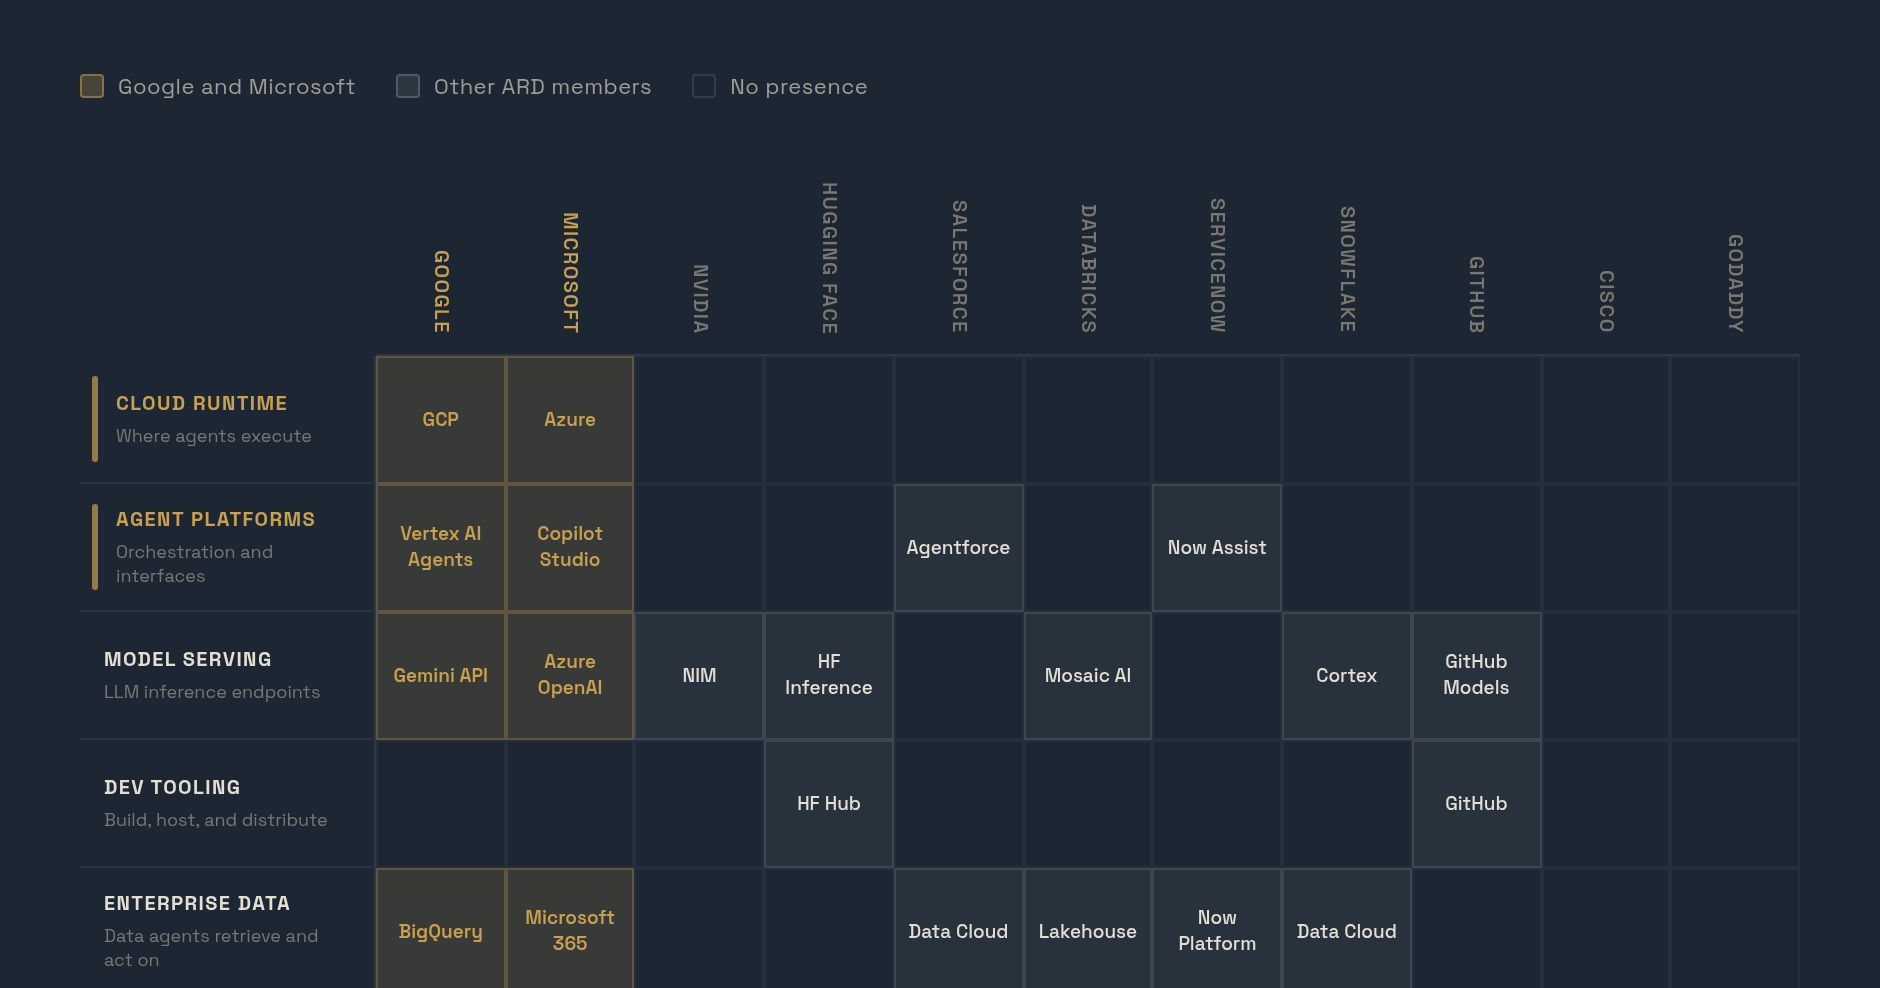
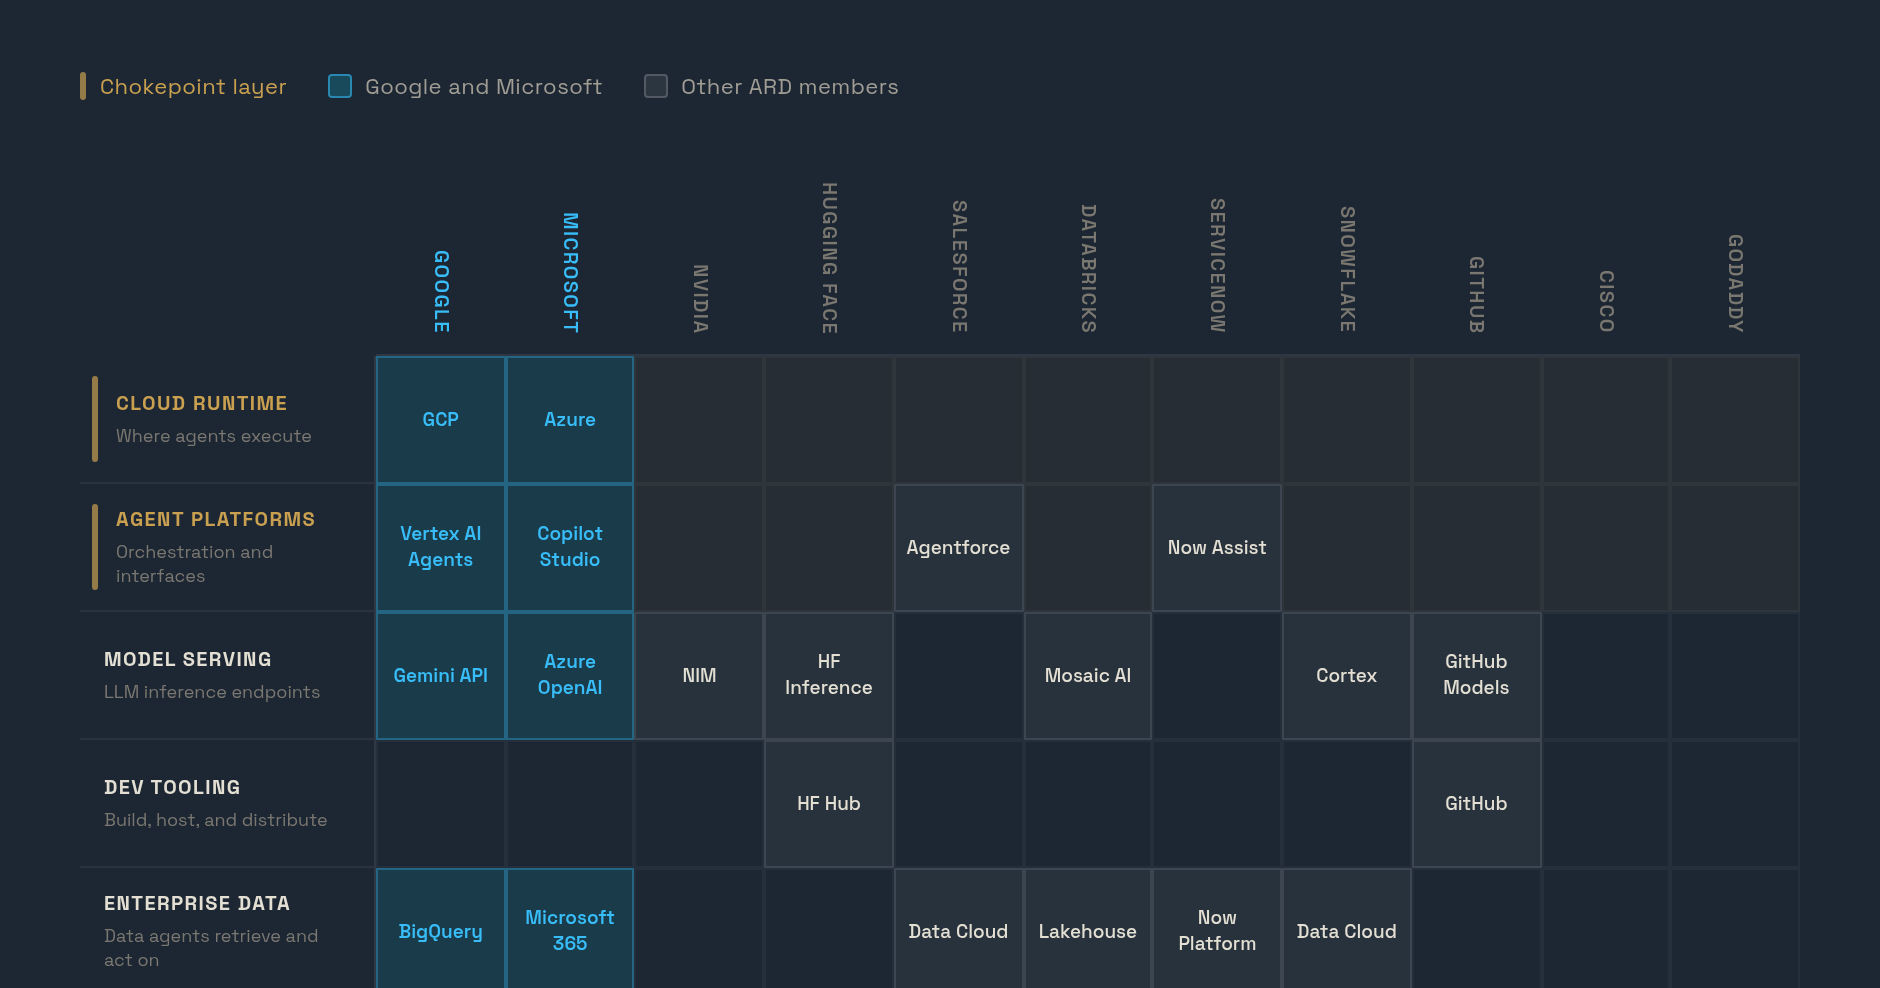
feat(the-index): color the two dominant firms in brand cyan
The matrix used amber for two different meanings at once: the chokepoint
rows AND the Google/Microsoft cells. Split them across two brand accents,
each with one job:

- Signal cyan (the primary accent, previously unused here) now marks the
  Google and Microsoft cells—the two firms that own both chokepoints.
- Amber stays the chokepoint-zone marker, now reinforced with a faint
  full-width wash across the two chokepoint rows so the row axis reads as
  strongly as the cyan columns.

The focal point becomes the cyan cells sitting inside the amber band:
the thesis made visual. Color carries meaning, not decoration. Thumbnail
and OG image regenerated to match.

Changed region(s): [[0.1851, 0.2126, 0.3394, 0.7591], [0.1851, 0.8806, 0.3394, 1.0], [0.0309, 0.0607, 0.4628, 0.1215]]

diff --git a/src/projects/the-index.html b/src/projects/the-index.html
@@ -11,6 +11,7 @@
     --viz-sub:     #a09d94;
     --viz-muted:   #7a7770;
     --clr-amber:   #C9A050;
+    --clr-cyan:    #38BDF8;
   }
 
   .chart-island {
@@ -44,16 +45,21 @@
     flex-shrink: 0;
   }
   .legend-swatch.sw-primary {
-    background: rgba(201,160,80,0.25);
-    border: 1px solid rgba(201,160,80,0.5);
+    background: rgba(14,165,201,0.28);
+    border: 1px solid rgba(56,189,248,0.55);
   }
   .legend-swatch.sw-secondary {
     background: rgba(255,255,255,0.07);
     border: 1px solid rgba(255,255,255,0.18);
   }
-  .legend-swatch.sw-empty {
-    background: transparent;
-    border: 1px solid rgba(255,255,255,0.1);
+  .legend-item--chokepoint { color: var(--clr-amber); }
+  .legend-bar {
+    width: 3px;
+    height: 14px;
+    border-radius: 2px;
+    background: var(--clr-amber);
+    opacity: 0.7;
+    flex-shrink: 0;
   }
 
   .matrix-scroll {
@@ -88,7 +94,7 @@
     line-height: 1;
   }
   .m-col-hdr.is-primary .m-col-hdr-txt {
-    color: var(--clr-amber);
+    color: var(--clr-cyan);
   }
 
   .m-row-lbl {
@@ -157,14 +163,17 @@
   .m-cell.has-product:hover {
     background: rgba(255,255,255,0.09);
   }
+  .m-cell.in-chokepoint:not(.has-product) {
+    background: rgba(201,160,80,0.055);
+  }
   .m-cell.has-product.is-primary {
-    background: rgba(201,160,80,0.16);
-    border-color: rgba(201,160,80,0.28);
-    color: var(--clr-amber);
+    background: rgba(14,165,201,0.16);
+    border-color: rgba(56,189,248,0.32);
+    color: var(--clr-cyan);
     font-weight: 600;
   }
   .m-cell.has-product.is-primary:hover {
-    background: rgba(201,160,80,0.24);
+    background: rgba(14,165,201,0.24);
   }
 
   .tooltip {
@@ -223,6 +232,10 @@
 
   <div class="chart-island">
     <div class="legend">
+      <div class="legend-item legend-item--chokepoint">
+        <div class="legend-bar"></div>
+        Chokepoint layer
+      </div>
       <div class="legend-item">
         <div class="legend-swatch sw-primary"></div>
         Google and Microsoft
@@ -230,10 +243,6 @@
       <div class="legend-item">
         <div class="legend-swatch sw-secondary"></div>
         Other ARD members
-      </div>
-      <div class="legend-item">
-        <div class="legend-swatch sw-empty"></div>
-        No presence
       </div>
     </div>
     <div class="matrix-scroll">
@@ -375,6 +384,7 @@
     COMPANIES.forEach(function (co, ci) {
       var data = CELLS[li][ci];
       var cls  = 'm-cell';
+      if (layer.chokepoint) cls += ' in-chokepoint';
       if (data) {
         cls += ' has-product';
         if (co.primary) cls += ' is-primary';